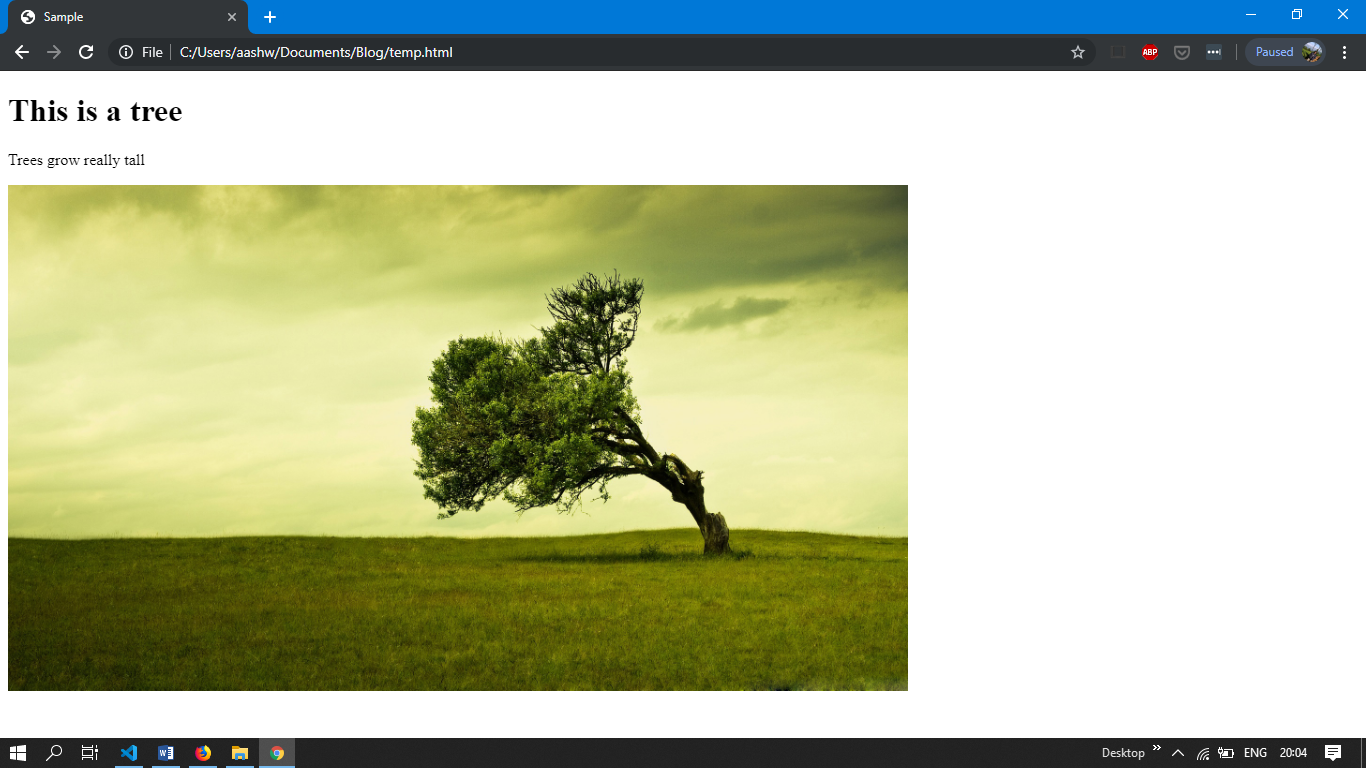
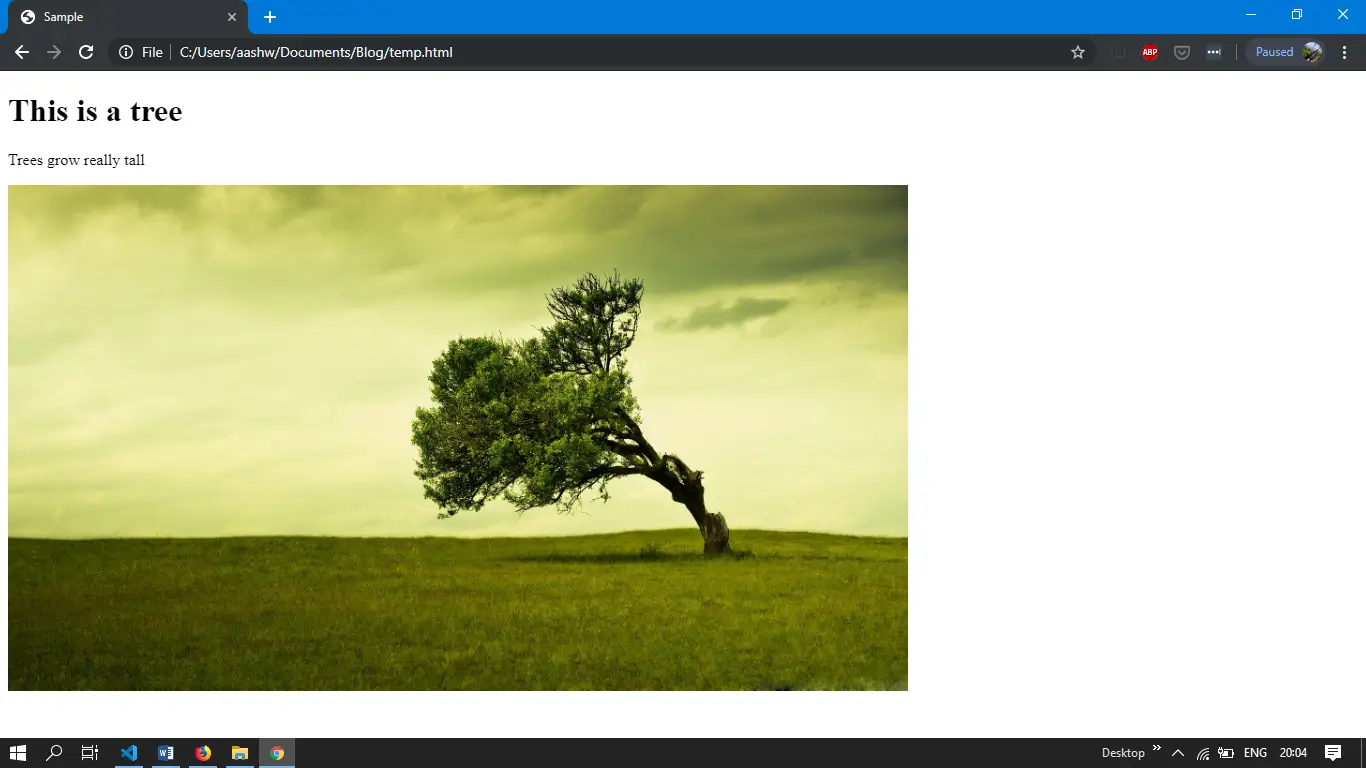
webp compressions and system fonts

diff --git a/src/styles/global.css b/src/styles/global.css
@@ -16,22 +16,9 @@
     0 8px 24px rgba(var(--gray), 33%), 0 16px 32px rgba(var(--gray), 33%);
   --mobile-width: 720px;
 }
-@font-face {
-  font-family: 'Atkinson';
-  src: url('/fonts/atkinson-regular.woff') format('woff');
-  font-weight: 400;
-  font-style: normal;
-  font-display: swap;
-}
-@font-face {
-  font-family: 'Atkinson';
-  src: url('/fonts/atkinson-bold.woff') format('woff');
-  font-weight: 700;
-  font-style: normal;
-  font-display: swap;
-}
 body {
-  font-family: 'Atkinson', sans-serif;
+  font-family: system-ui, 'Segoe UI', Roboto, Helvetica, Arial, sans-serif,
+    'Apple Color Emoji', 'Segoe UI Emoji', 'Segoe UI Symbol';
   margin: 0;
   padding: 0;
   text-align: left;
